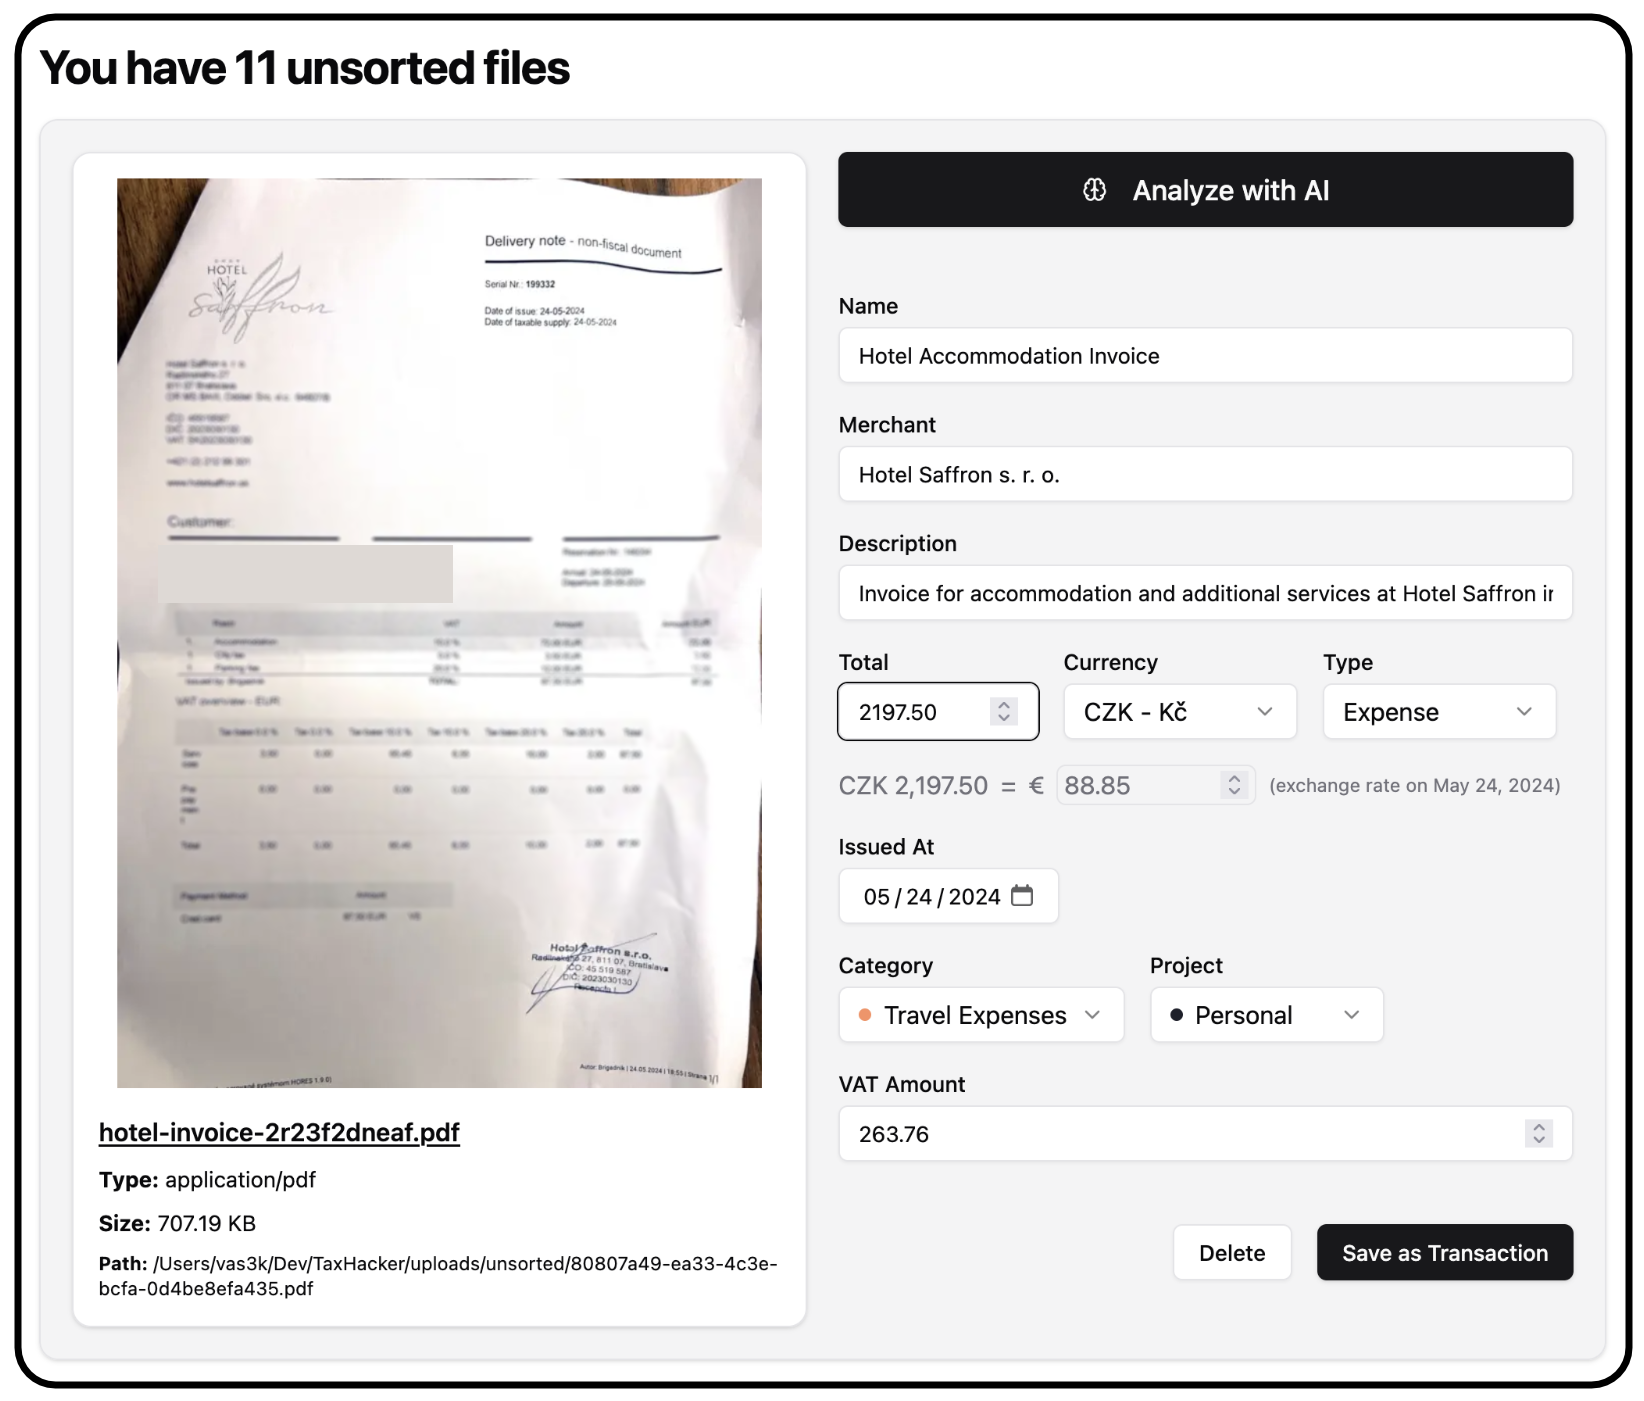
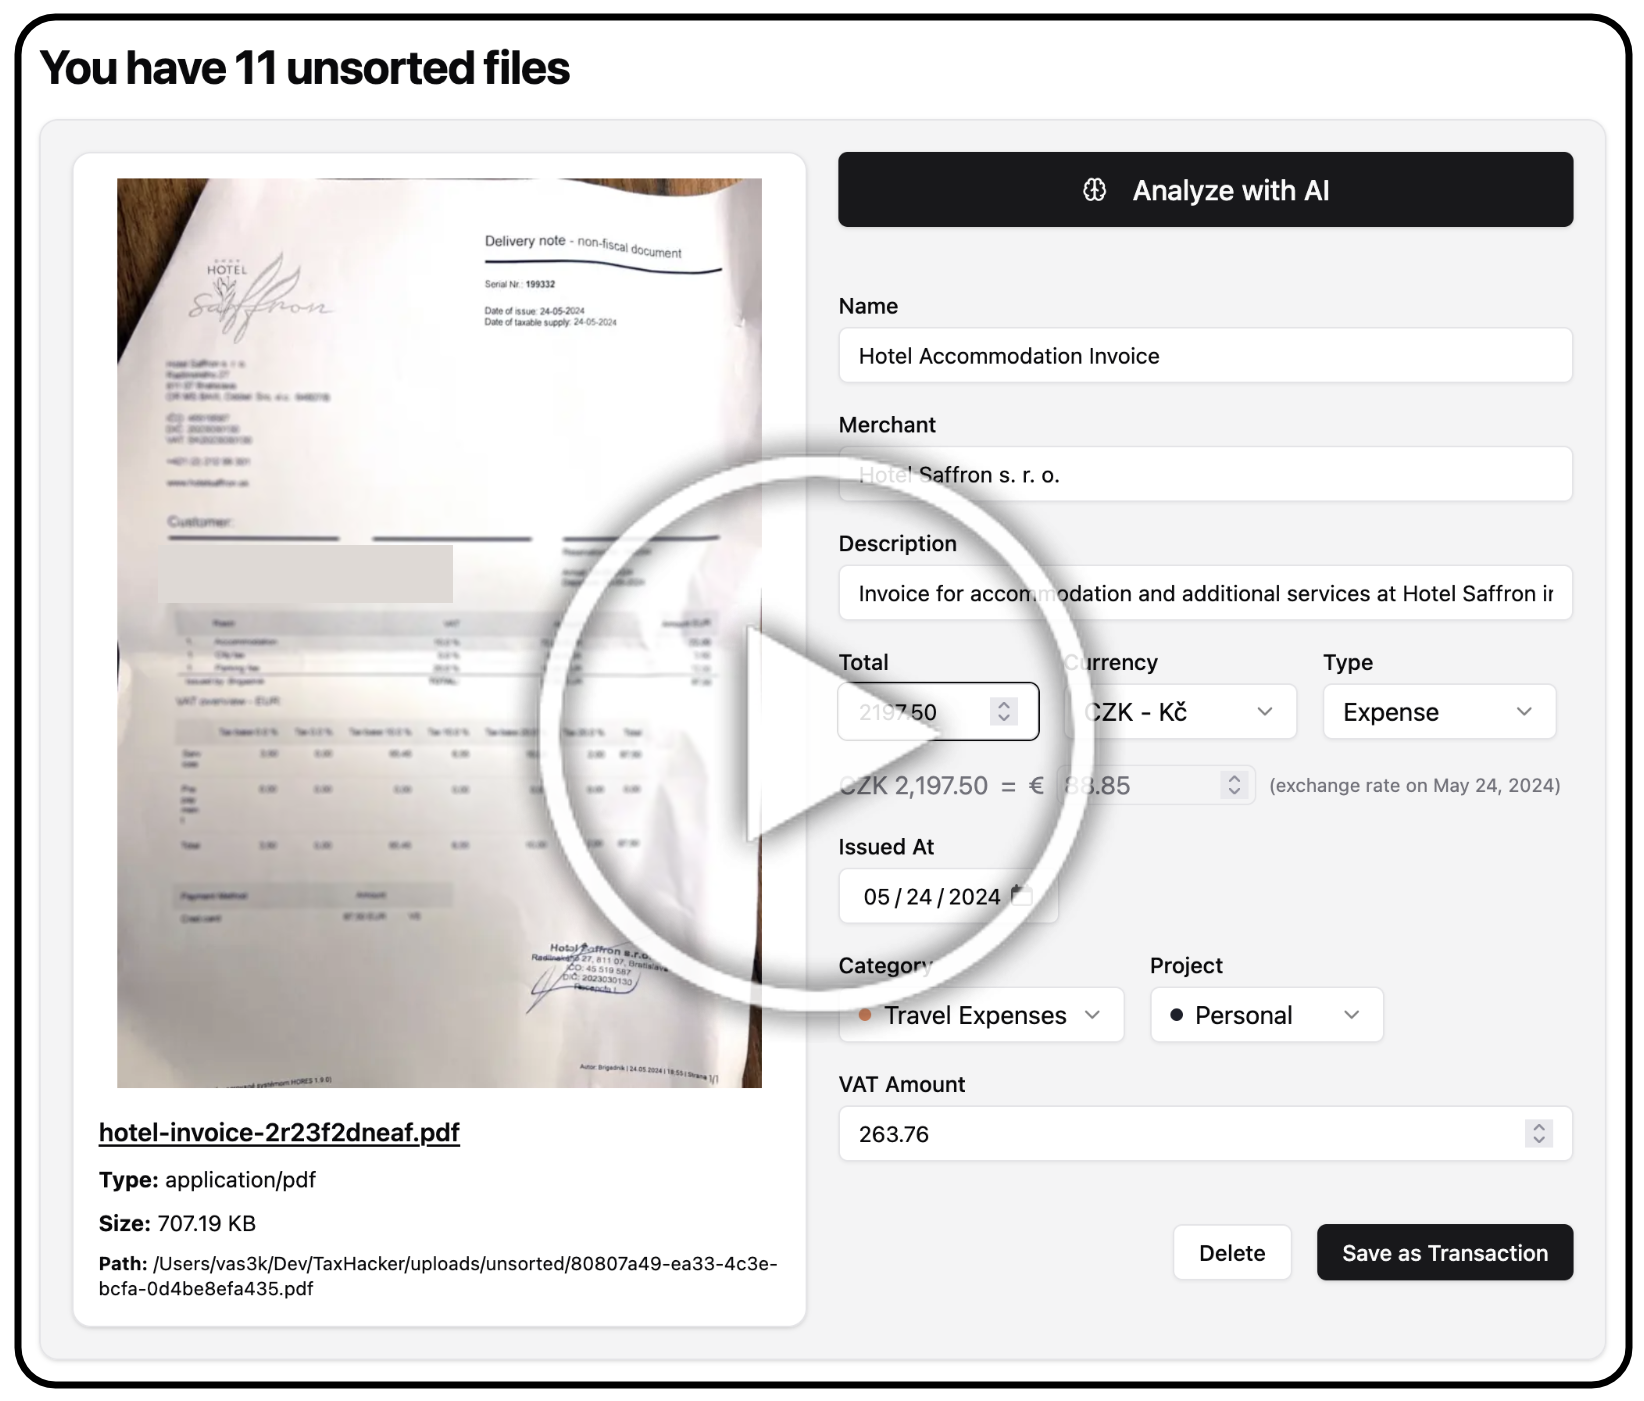
docs: add demo video to README

Changed region(s): [[0.3102, 0.3069, 0.6825, 0.7366], [0.4343, 0.4297, 0.5894, 0.6138]]

diff --git a/README.md b/README.md
@@ -41,7 +41,9 @@ Built-in system of filters, support for multiple projects, import-export of tran
 
 ### `1` Upload photos or documents to analyze with LLM
 
-![Analyze with AI](docs/screenshots/analyze.png)
+https://github.com/user-attachments/assets/3326d0e3-0bf6-4c39-9e00-4bf0983d9b7a
+
+> 🎥 [Watch the video](https://github.com/user-attachments/assets/3326d0e3-0bf6-4c39-9e00-4bf0983d9b7a)
 
 Take a photo on upload or a PDF and TaxHacker will automatically recognise, categorise and store transaction information.
 
